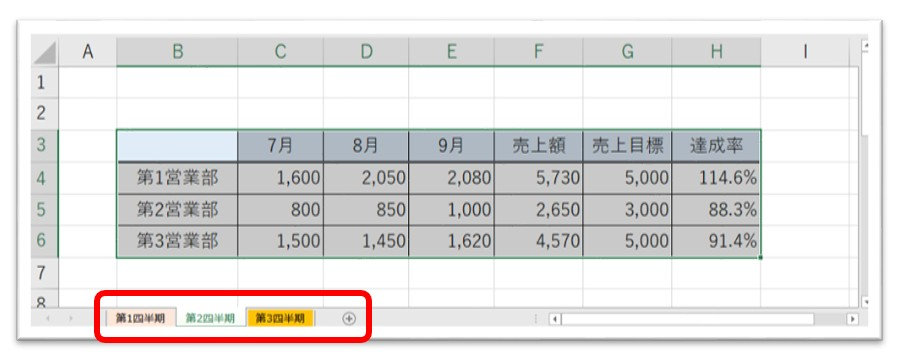
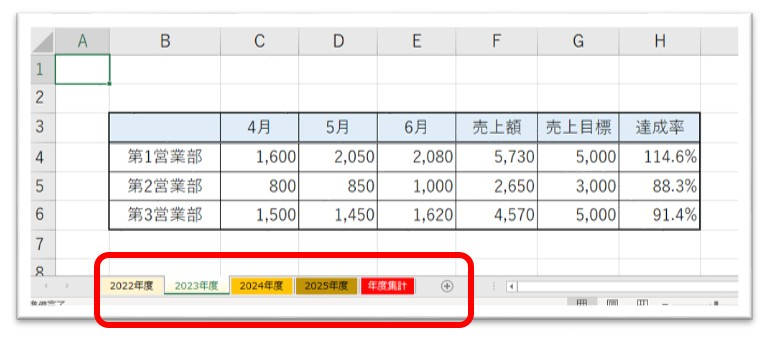
3D集計他

diff --git a/guide-excel-basics.html b/guide-excel-basics.html
@@ -391,13 +391,13 @@
 
                     <ul class="rich-list">
                         <li><strong>シートの追加：</strong> 画面下の「＋」ボタンで新しいシートを増やせます。</li>
-                        <li><strong>名前の変更：</strong> タブをダブルクリックして「第1四半期」など中身がわかる名前にします。</li>
+                        <li><strong>名前の変更：</strong> タブをダブルクリックして「2022年度」など中身がわかる名前にします。</li>
                         <li><strong>色の変更：</strong> タブを右クリックして「シート見出しの色」を設定できます。重要なシートを目立たせることで、操作ミスを防げます。</li>
                         <li><strong>コピーと移動：</strong> <kbd>Ctrl</kbd> キーを押しながらタブを右にドラッグすると、全く同じレイアウトのシートを複製できます。毎月の報告書を作る際に重宝します。</li>
                     </ul>
 
                     <h2>シート間集計（3D集計）の活用</h2>
-                    <p>「第1四半期」から「第4四半期」までのシートが揃ったら、それらを合計した「年間集計」のシートが必要になります。このように、複数のシートをまたいで計算することを<strong>「シート間集計（3D集計）」</strong>と呼びます。</p>
+                    <p>「2022年度」から「2025年度」までのシートが揃ったら、それらを合計した「年間集計」のシートを作ってみましょう。このように、複数のシートをまたいで計算することを<strong>「シート間集計（3D集計）」</strong>と呼びます。</p>
 
                     <div class="article-image article-image--window">
                         <img src="img/guide-excel-3d-sum.jpg" alt="複数シートをまたいでSUM関数で集計している数式バーの様子">
